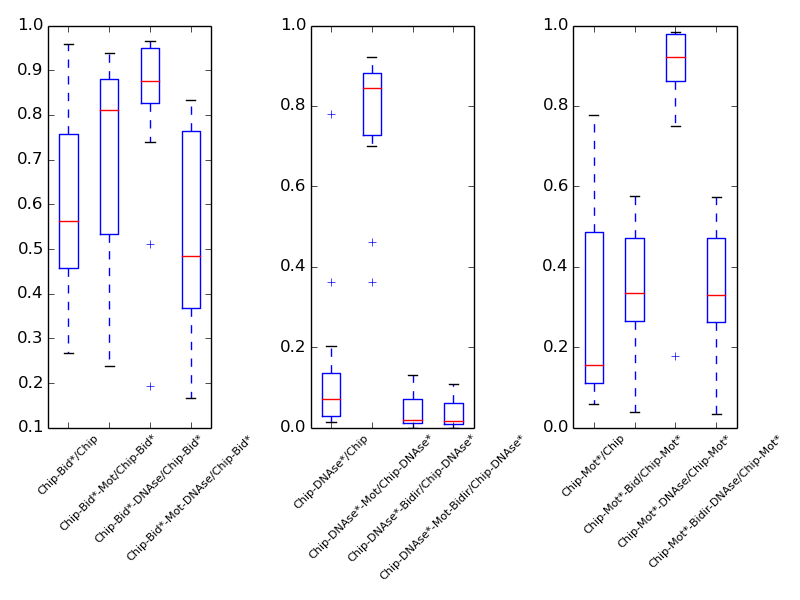
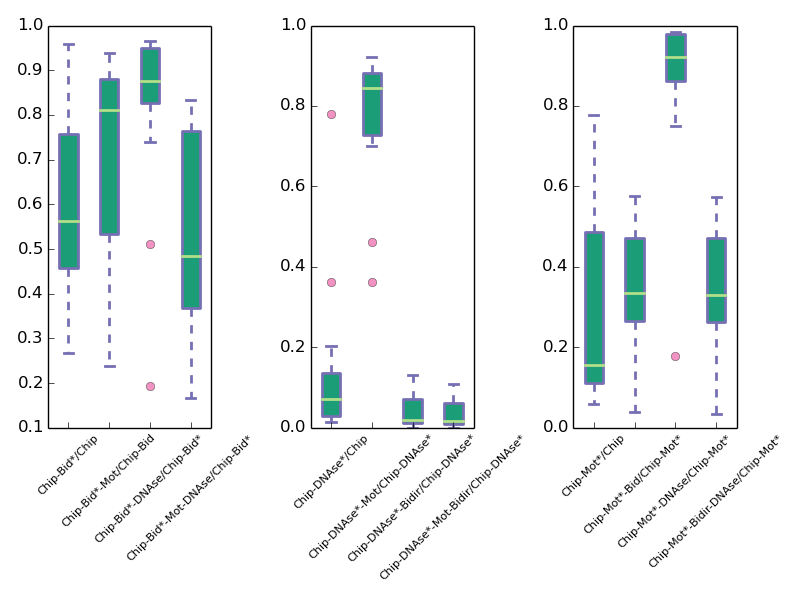
updates

diff --git a/src/VennGeneratorv2.py b/src/VennGeneratorv2.py
@@ -338,20 +338,22 @@ if __name__ == "__main__":
     #ax1.set_xticklabels(['Chip-Bid/Chip','Chip-Bid-Mot/Chip-Mot'],rotation = 45, fontsize=8)
     #ax2.boxplot(list2)
     #ax2.set_xticklabels(['Chip-Mot/Chip', 'Chip-Bid-Mot/Chip-Bid'],rotation = 45, fontsize=8)
-    #bp1 = ax1.boxplot(list3)
-    #ax1.set_xticklabels(['Mot-Chip/Mot','DNAse-Chip/DNAse','Bid-Chip/Bid','Bid-Mot-Chip/Bid-Mot','DNAse-Chip-Mot/DNAse-Mot','DNAse-Chip-Mot-Bid/DNAse-Mot-Bid'],rotation = 45, fontsize=8)
-    bp1 = ax1.boxplot(list4,patch_artist=True)
-    ax1.set_xticklabels(['Chip-Bid*/Chip','Chip-Bid*-Mot/Chip-Bid','Chip-Bid*-DNAse/Chip-Bid*','Chip-Bid*-Mot-DNAse/Chip-Bid*'],rotation = 45, fontsize=8)
+    bp1 = ax1.boxplot(list3)
+    ax1.set_xticklabels(['Mot-Chip/Mot','DNAse-Chip/DNAse','Bid-Chip/Bid','Bid-Mot-Chip/Bid-Mot','DNAse-Chip-Mot/DNAse-Mot','DNAse-Chip-Mot-Bid/DNAse-Mot-Bid'],rotation = 45, fontsize=8)
     ax1.get_xaxis().tick_bottom()
     ax1.get_yaxis().tick_left()
-    bp2 = ax2.boxplot(list5,patch_artist=True)
-    ax2.set_xticklabels(['Chip-DNAse*/Chip','Chip-DNAse*-Mot/Chip-DNAse*','Chip-DNAse*-Bidir/Chip-DNAse*','Chip-DNAse*-Mot-Bidir/Chip-DNAse*'],rotation = 45, fontsize=8)
-    ax2.get_xaxis().tick_bottom()
-    ax2.get_yaxis().tick_left()
-    bp3 = ax3.boxplot(list6,patch_artist=True)
-    ax3.set_xticklabels(['Chip-Mot*/Chip','Chip-Mot*-Bid/Chip-Mot*','Chip-Mot*-DNAse/Chip-Mot*','Chip-Mot*-Bidir-DNAse/Chip-Mot*'],rotation = 45, fontsize=8)
-    ax3.get_xaxis().tick_bottom()
-    ax3.get_yaxis().tick_left()
+    #bp1 = ax1.boxplot(list4,patch_artist=True)
+    #ax1.set_xticklabels(['Chip-Bid*/Chip','Chip-Bid*-Mot/Chip-Bid','Chip-Bid*-DNAse/Chip-Bid*','Chip-Bid*-Mot-DNAse/Chip-Bid*'],rotation = 45, fontsize=8)
+    #ax1.get_xaxis().tick_bottom()
+    #ax1.get_yaxis().tick_left()
+    #bp2 = ax2.boxplot(list5,patch_artist=True)
+    #ax2.set_xticklabels(['Chip-DNAse*/Chip','Chip-DNAse*-Mot/Chip-DNAse*','Chip-DNAse*-Bidir/Chip-DNAse*','Chip-DNAse*-Mot-Bidir/Chip-DNAse*'],rotation = 45, fontsize=8)
+    #ax2.get_xaxis().tick_bottom()
+    #ax2.get_yaxis().tick_left()
+    #bp3 = ax3.boxplot(list6,patch_artist=True)
+    #ax3.set_xticklabels(['Chip-Mot*/Chip','Chip-Mot*-Bid/Chip-Mot*','Chip-Mot*-DNAse/Chip-Mot*','Chip-Mot*-Bidir-DNAse/Chip-Mot*'],rotation = 45, fontsize=8)
+    #ax3.get_xaxis().tick_bottom()
+    #ax3.get_yaxis().tick_left()
     #ax = plt.axes()
     #plt.boxplot(list1)
     #title = bidirfile.split('/')[-1]
@@ -377,44 +379,44 @@ if __name__ == "__main__":
     for flier in bp1['fliers']:
         flier.set(marker='o', color='#e7298a', alpha=0.5)
     
-    ## change outline color, fill color and linewidth of the boxes
-    for box in bp2['boxes']:
-        # change outline color
-        box.set( color='#7570b3', linewidth=2)
-        # change fill color
-        box.set( facecolor = '#1b9e77' )
-    ## change color and linewidth of the whiskers
-    for whisker in bp2['whiskers']:
-        whisker.set(color='#7570b3', linewidth=2)
-    ## change color and linewidth of the caps
-    for cap in bp2['caps']:
-        cap.set(color='#7570b3', linewidth=2)
-    ## change color and linewidth of the medians
-    for median in bp2['medians']:
-        median.set(color='#b2df8a', linewidth=2)
-    ## change the style of fliers and their fill
-    for flier in bp2['fliers']:
-        flier.set(marker='o', color='#e7298a', alpha=0.5)
-        
-    ## change outline color, fill color and linewidth of the boxes
-    for box in bp3['boxes']:
-        # change outline color
-        box.set( color='#7570b3', linewidth=2)
-        # change fill color
-        box.set( facecolor = '#1b9e77' )
-    ## change color and linewidth of the whiskers
-    for whisker in bp3['whiskers']:
-        whisker.set(color='#7570b3', linewidth=2)
-    ## change color and linewidth of the caps
-    for cap in bp3['caps']:
-        cap.set(color='#7570b3', linewidth=2)
-    ## change color and linewidth of the medians
-    for median in bp3['medians']:
-        median.set(color='#b2df8a', linewidth=2)
-    ## change the style of fliers and their fill
-    for flier in bp3['fliers']:
-        flier.set(marker='o', color='#e7298a', alpha=0.5)
+    ### change outline color, fill color and linewidth of the boxes
+    #for box in bp2['boxes']:
+    #    # change outline color
+    #    box.set( color='#7570b3', linewidth=2)
+    #    # change fill color
+    #    box.set( facecolor = '#1b9e77' )
+    ### change color and linewidth of the whiskers
+    #for whisker in bp2['whiskers']:
+    #    whisker.set(color='#7570b3', linewidth=2)
+    ### change color and linewidth of the caps
+    #for cap in bp2['caps']:
+    #    cap.set(color='#7570b3', linewidth=2)
+    ### change color and linewidth of the medians
+    #for median in bp2['medians']:
+    #    median.set(color='#b2df8a', linewidth=2)
+    ### change the style of fliers and their fill
+    #for flier in bp2['fliers']:
+    #    flier.set(marker='o', color='#e7298a', alpha=0.5)
+    #    
+    ### change outline color, fill color and linewidth of the boxes
+    #for box in bp3['boxes']:
+    #    # change outline color
+    #    box.set( color='#7570b3', linewidth=2)
+    #    # change fill color
+    #    box.set( facecolor = '#1b9e77' )
+    ### change color and linewidth of the whiskers
+    #for whisker in bp3['whiskers']:
+    #    whisker.set(color='#7570b3', linewidth=2)
+    ### change color and linewidth of the caps
+    #for cap in bp3['caps']:
+    #    cap.set(color='#7570b3', linewidth=2)
+    ### change color and linewidth of the medians
+    #for median in bp3['medians']:
+    #    median.set(color='#b2df8a', linewidth=2)
+    ### change the style of fliers and their fill
+    #for flier in bp3['fliers']:
+    #    flier.set(marker='o', color='#e7298a', alpha=0.5)
     
     
-    plt.savefig(chipdir + '/overlap_boxplot3.png')
+    plt.savefig(chipdir + '/overlap_boxplot2.png')
     
